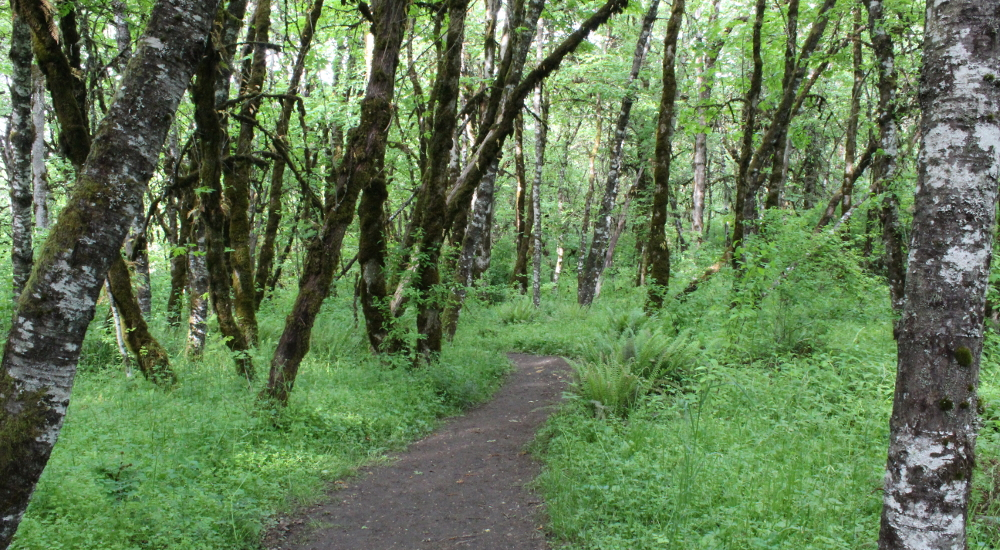
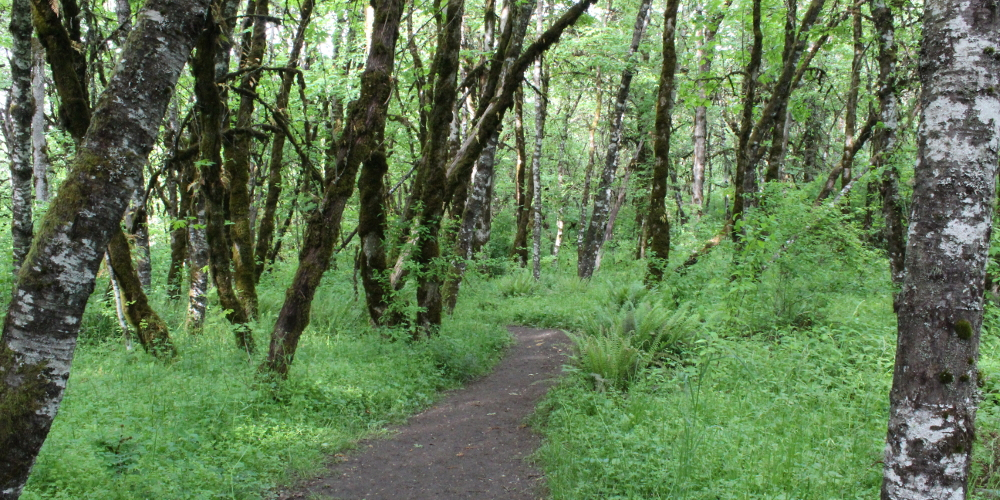
better adapted to diff screens

diff --git a/public/styles/potion.css b/public/styles/potion.css
@@ -1,0 +1,215 @@
+body {
+	margin: 0;
+}
+
+#potion {
+	width: 100%;
+	height: 100%;
+	background-color: #000000;
+	display: flex;
+    /* flex-direction: column;*/
+    align-items: center;
+}
+
+#potionContainer {
+	width: 200px;
+	height: 200px;
+	margin: auto;
+	position: absolute;
+}
+
+@media screen and (min-width: 864px) {
+	#potionContainer {
+		left: 364px;
+	}
+}
+
+@media screen and (max-width: 865px) {
+	#potionContainer {
+		left: calc(47% - 100px);
+	}
+}
+
+#container svg {
+	position: absolute;
+	vertical-align: middle;
+	z-index: 1;
+}
+
+.bubble {
+	position: absolute;
+	background-color: transparent;
+	width: 10px;
+	height: 10px;
+	border: 1px rgba(255, 255, 255, 0.7) solid;
+	border-radius: 50%;
+	z-index: 2;
+}
+
+#bubble1 {
+	animation: anim1 1.3s 0.1s infinite;
+	left: 70px;
+	top: 120px;
+}
+
+#bubble2 {
+	animation: anim2 1.2s 0.0s infinite;
+	left: 110px;
+	top: 110px;
+}
+
+#bubble3 {
+	animation: anim3 1.1s 0.2s infinite;
+	left: 85px;
+	top: 125px;
+}
+
+#bubble4 {
+	animation: anim4 1.15s 0.3s infinite;
+	left: 105px;
+	top: 140px;
+}
+
+@keyframes anim1{
+  0%{
+	transform: translate(0px, 0px);
+  }
+  10%{
+	transform: translate(2px, -10px)
+  }
+  20%{
+	transform: translate(5px, -20px)
+  }
+  30%{
+	transform: translate(10px, -35px)
+  }
+  40%{
+	transform: translate(13px, -55px)
+  }
+  50%{
+	transform: translate(15px, -70px)
+  }
+  60%{
+	transform: translate(15px, -80px)
+  }
+  70%{
+	transform: translate(15px, -90px)
+  }
+  80%{
+	transform: translate(15px, -100px)
+  }
+  90%{
+	transform: translate(15px, -110px);
+  }
+  100%{
+	transform: translate(15px, -120px);
+  }
+}
+
+@keyframes anim2{
+	0%{
+	  transform: translate(0px, 0px);
+	}
+	10%{
+	  transform: translate(-2px, -10px)
+	}
+	20%{
+	  transform: translate(-4px, -20px)
+	}
+	30%{
+	  transform: translate(-5px, -35px)
+	}
+	40%{
+	  transform: translate(-5px, -55px)
+	}
+	50%{
+	  transform: translate(-5px, -70px)
+	}
+	60%{
+	  transform: translate(-5px, -80px)
+	}
+	70%{
+	  transform: translate(-5px, -90px)
+	}
+	80%{
+	  transform: translate(-5px, -100px)
+	}
+	90%{
+	  transform: translate(-5px, -110px);
+	}
+	100%{
+	  transform: translate(-5px, -120px);
+	}
+}
+
+@keyframes anim3{
+	0%{
+	  transform: translate(0px, 0px);
+	}
+	10%{
+	  transform: translate(1px, -9px)
+	}
+	20%{
+	  transform: translate(2px, -18px)
+	}
+	30%{
+	  transform: translate(3px, -27px)
+	}
+	40%{
+	  transform: translate(4px, -35px)
+	}
+	50%{
+	  transform: translate(5px, -48px)
+	}
+	60%{
+	  transform: translate(5px, -60px)
+	}
+	70%{
+	  transform: translate(5px, -70px)
+	}
+	80%{
+	  transform: translate(5px, -80px)
+	}
+	90%{
+	  transform: translate(5px, -90px);
+	}
+	100%{
+	  transform: translate(5px, -100px);
+	}
+}
+
+@keyframes anim4{
+	0%{
+	  transform: translate(0px, 0px);
+	}
+	10%{
+	  transform: translate(0px, -9px)
+	}
+	20%{
+	  transform: translate(-1px, -18px)
+	}
+	30%{
+	  transform: translate(-1px, -27px)
+	}
+	40%{
+	  transform: translate(-2px, -35px)
+	}
+	50%{
+	  transform: translate(-2px, -48px)
+	}
+	60%{
+	  transform: translate(-3px, -60px)
+	}
+	70%{
+	  transform: translate(-3px, -70px)
+	}
+	80%{
+	  transform: translate(-4px, -80px)
+	}
+	90%{
+	  transform: translate(-4px, -90px);
+	}
+	100%{
+	  transform: translate(-4px, -100px);
+	}
+}

diff --git a/public/index.html b/public/index.html
@@ -1,6 +1,7 @@
 <html>
 <head>
 <link rel="stylesheet" href="styles/style.css">
+<script src="/scripts/script.js" charset="utf-8"></script>
 <link rel="preconnect" href="https://fonts.gstatic.com">
 <link href="https://fonts.googleapis.com/css2?family=IBM+Plex+Mono&display=swap" rel="stylesheet">
 <link rel="shortcut icon" href="img/icon.png">
@@ -11,7 +12,7 @@
 			<div id="photos">
 				<a class="link" href="photos">
 				<div class="panel">
-					<img class="panel-img" src="img/photos-bg.JPG">
+					<img id="photos-bg" class="panel-img" src="">
 					<div class="film"></div>
 					<div class="panel-label">
 						<h>Photos</h>
@@ -22,7 +23,7 @@
 			<div id="projects">
 				<a class="link" href="projects">
 				<div class="panel">
-					<img class="panel-img" src="img/projects-bg.JPG">
+					<img id="projects-bg" class="panel-img" src="">
 					<div class="film"></div>
 					<div class="panel-label">
 						<h>Projects</h>
@@ -33,7 +34,7 @@
 			<div id="contact">
 				<a class="link" href="contact">
 				<div class="panel">
-					<img class="panel-img" src="img/contact-bg.JPG">
+					<img id="contact-bg" class="panel-img" src="">
 					<div class="film"></div>
 					<div class="panel-label">
 						<h>Contact</h>
@@ -44,7 +45,7 @@
 			<div id="cv">
 				<a class="link" href="cv">
 				<div class="panel">
-					<img class="panel-img" src="img/cv-bg.JPG">
+					<img id="cv-bg" class="panel-img" src="">
 					<div class="film"></div>
 					<div class="panel-label">
 						<h>CV</h>

diff --git a/public/scripts/script.js b/public/scripts/script.js
@@ -1,0 +1,14 @@
+window.onload = function () {
+	if (window.screen.availHeight <= 720 && window.screen.availWidth <= 1280) {
+		document.getElementById("photos-bg").src = "img/photos-bg-1.5.JPG";
+		document.getElementById("projects-bg").src = "img/projects-bg-1.5.JPG";
+		document.getElementById("contact-bg").src = "img/contact-bg-1.5.JPG";
+		document.getElementById("cv-bg").src = "img/cv-bg-1.5.JPG";
+	}
+	else {
+		document.getElementById("photos-bg").src = "img/photos-bg.JPG";
+		document.getElementById("projects-bg").src = "img/projects-bg.JPG";
+		document.getElementById("contact-bg").src = "img/contact-bg.JPG";
+		document.getElementById("cv-bg").src = "img/cv-bg.JPG";
+	}
+}

diff --git a/public/routes/home.js b/public/routes/home.js
@@ -3,13 +3,11 @@ const path = require('path');
 var router = require('express').Router();
 
 router.get('/', function(req, res) {
-    res.sendFile('index.html', {root: path.join(__dirname, '../')}, function (err) {
-        if (err) {
-          console.log('error')
-        } else {
-          console.log('bruh')
-        }
-    })
+  res.sendFile('index.html', {root: path.join(__dirname, '../')}, function (err) {
+    if (err) {
+      console.log(err);
+    }
+  })
 });
 
 module.exports = router;

diff --git a/public/routes/projects.js b/public/routes/projects.js
@@ -5,9 +5,7 @@ var router = require('express').Router();
 router.get('/projects', function(req, res) {
     res.sendFile('projects.html', {root: path.join(__dirname, '../')}, function (err) {
         if (err) {
-          console.log('error')
-        } else {
-          console.log('bruh')
+          console.log(err)
         }
     })
 });

diff --git a/public/routes/CV.js b/public/routes/CV.js
@@ -5,9 +5,7 @@ var router = require('express').Router();
 router.get('/cv', function(req, res) {
     res.sendFile('cv.pdf', {root: path.join(__dirname, '../')}, function (err) {
         if (err) {
-          console.log('error')
-        } else {
-          console.log('bruh')
+          console.log(err)
         }
     })
 });

diff --git a/public/routes/curl.js b/public/routes/curl.js
@@ -5,7 +5,7 @@ var router = require('express').Router();
 router.get('/curl', function(req, res) {
     res.sendFile('curl.html', {root: path.join(__dirname, '../')}, function (err) {
         if (err) {
-          console.log('error')
+          console.log(err)
         }
     })
 });

diff --git a/public/routes/photo.js b/public/routes/photo.js
@@ -2,7 +2,7 @@ const path = require('path');
 var db = require('../../database')
 var router = require('express').Router();
 var stylesheet = 'photo.css';
-var script = '';
+var script = 'photo.js';
 
 router.get('/photos/:n', function(req, res) {
     var n = req.params.n;

diff --git a/public/styles/style.css b/public/styles/style.css
@@ -75,13 +75,8 @@ body {
 	width: 100%;
 	height: 100%;
 	margin: auto;
-	color: rgba(255, 255, 255, 0.5);
+	color: #ffffff;
 	display: block;
-}
-
-.panel:hover {
-	background-color: transparent;
-	color: rgb(255, 255, 255);
 }
 
 .panel-label {
